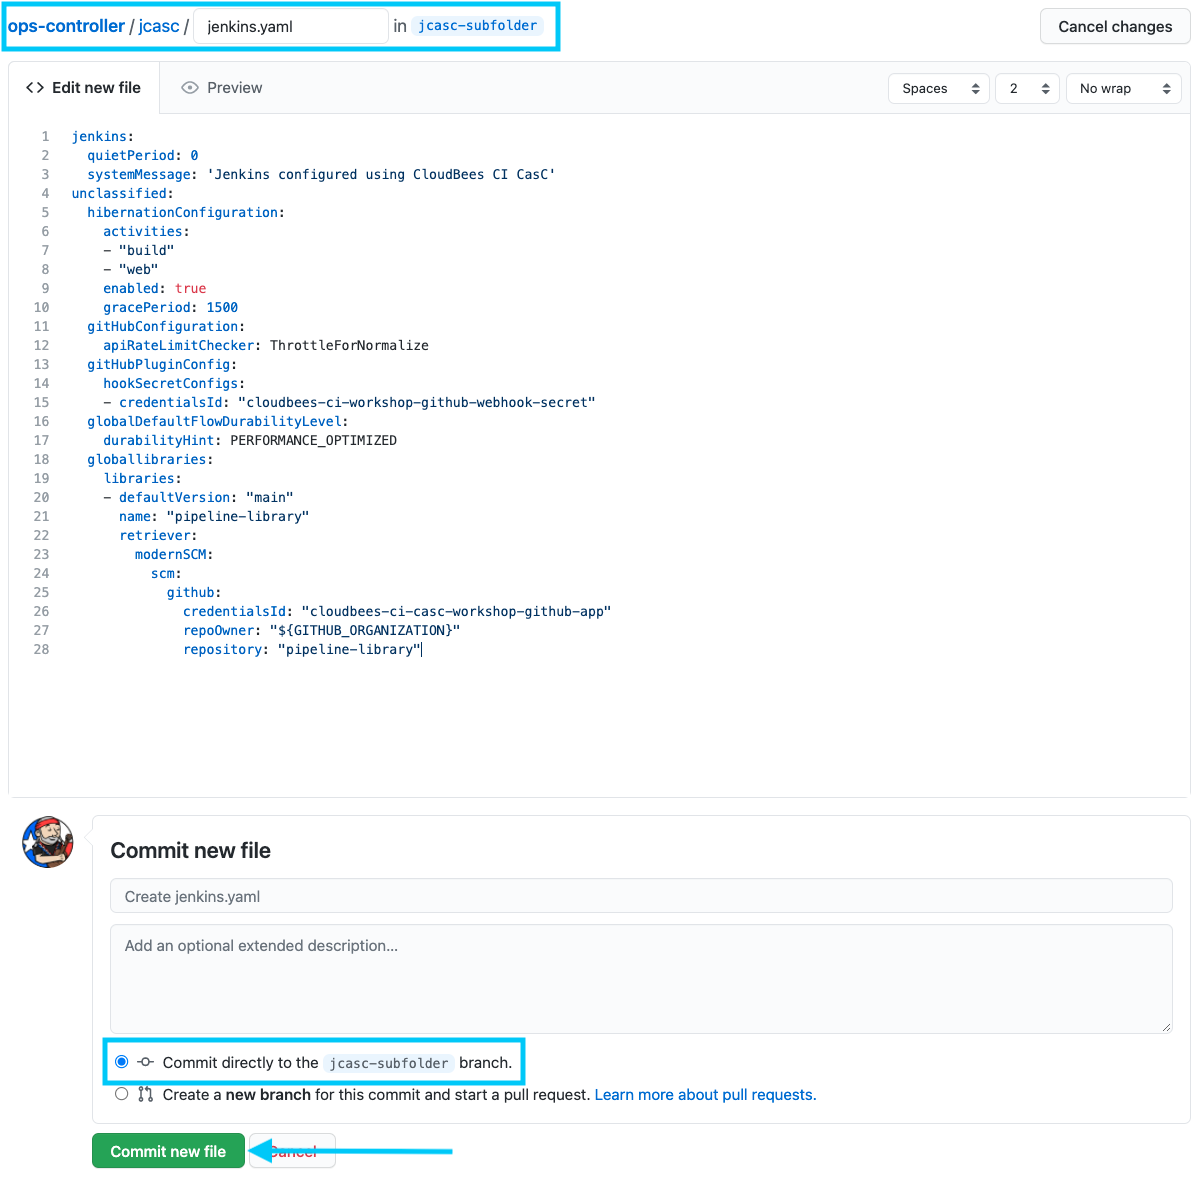
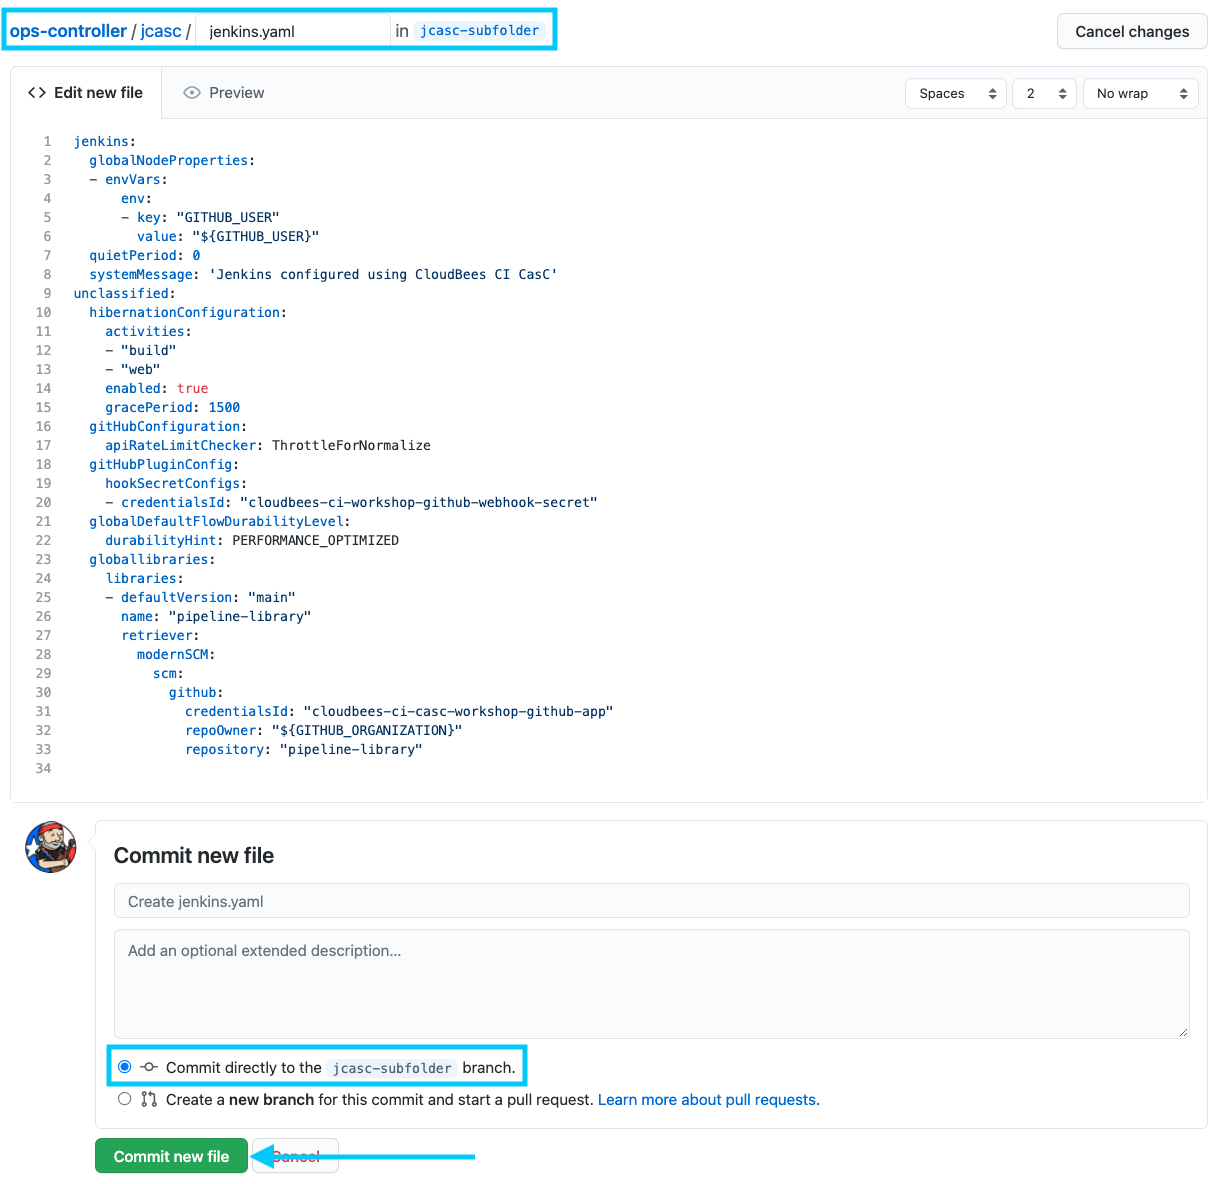
misc updates

diff --git a/labs/cloudbees-ci-casc/content/labs/advanced-bundle-composition.md b/labs/cloudbees-ci-casc/content/labs/advanced-bundle-composition.md
@@ -30,12 +30,17 @@ credentials:
           privateKey: "${cbciCascWorkshopGitHubAppPrivateKey}"
 ```
 2. Name the new file `jcasc/credentials.yaml`, copy the `credentials` section from above and paste it into the GitHub file editor. Then select the option to **"Create a new branch for this commit and start a pull request"**, name the branch `jcasc-subfolder` and finally click the **Propose changes** button. ![Create credentials.yaml in jcasc folder](github-commit-credentials-yaml.png?width=50pc)
-3. On the next screen click the **Create pull request** button to create a pull request to merge to the `main` branch when are done updating your `ops-controller` configuration bundle. ![Create sub-folder pull request](github-create-subfolder-pr.png?width=50pc)
+3. On the next screen click the **Create pull request** button to create a pull request to merge to the `main` branch when you are done updating your `ops-controller` configuration bundle. ![Create sub-folder pull request](github-create-subfolder-pr.png?width=50pc)
 4. Next, navigate back to the **Code** tab of your `ops-controller` repository and select the `jcasc-subfolder` branch from the branch drop down. ![Select jcasc-subfolder branch](github-select-jcasc-subfolder-branch.png?width=50pc)
 5. Back at the top level of your `ops-controller` repository, click on the `jcasc` folder and then click on the **Add file** button and then select **Create new file**. ![Create new unclassified in GitHub](github-create-unclassified-file.png?width=50pc)
 6. Name the file `jenkins.yaml` and paste the contents from the `jenkins` and `unclassified` sections of the `jenkins.yaml` file into the editor. The new `jenkins.yaml` contents should match the following:
 ```yaml
 jenkins:
+  globalNodeProperties:
+  - envVars:
+      env:
+      - key: "GITHUB_USER"
+        value: "${GITHUB_USER}"
   quietPeriod: 0
   systemMessage: 'Jenkins configured using CloudBees CI CasC'
 unclassified:
